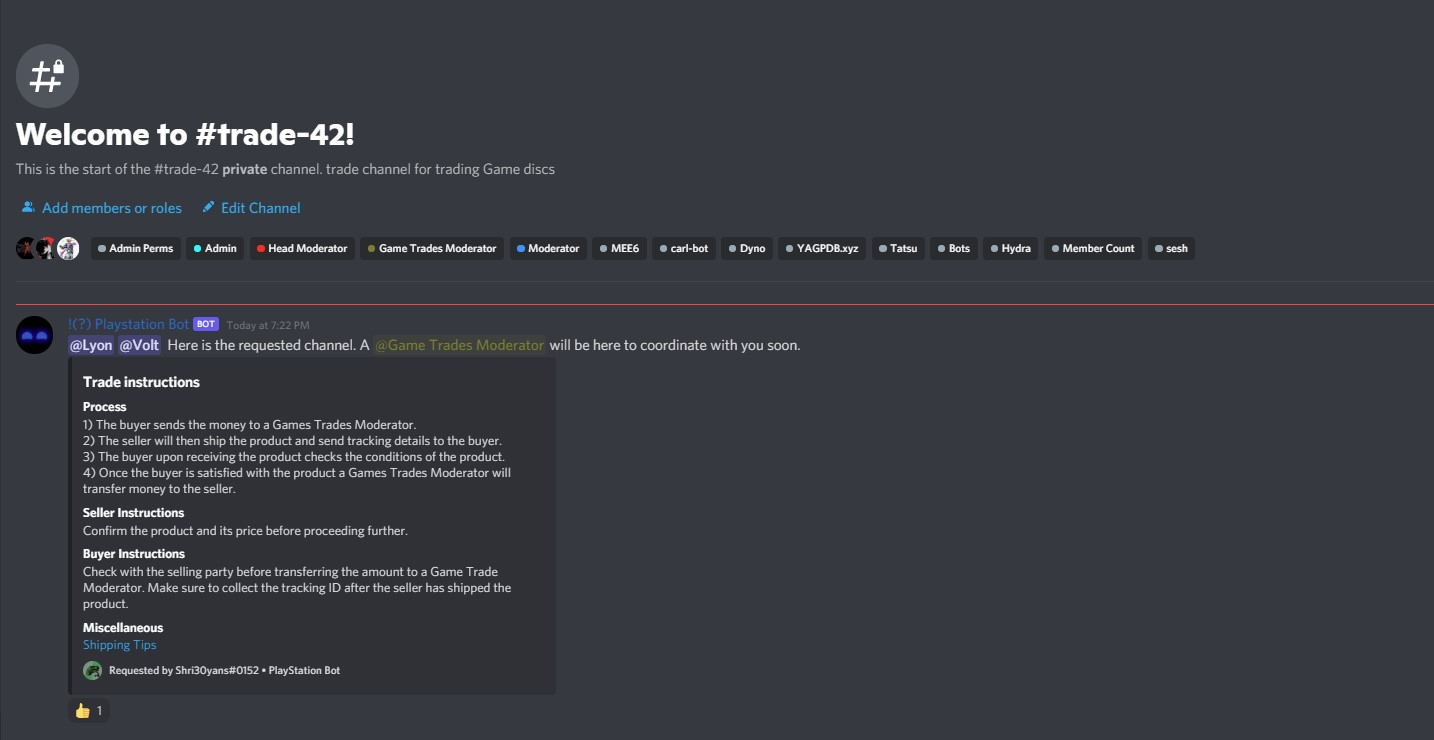
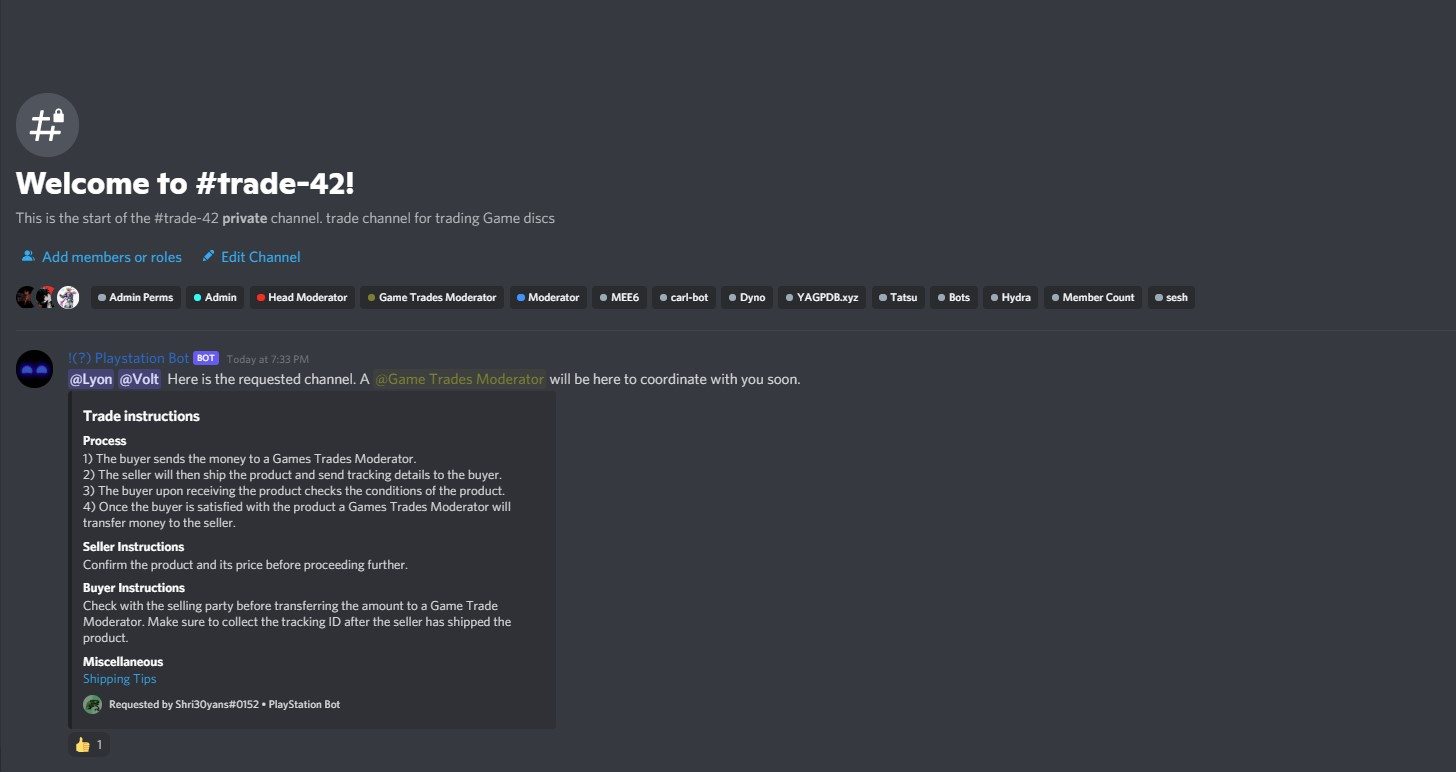
Added Invite link

Changed region(s): [[0.0, 0.0622, 0.8285, 0.9324]]

diff --git a/readme.md b/readme.md
@@ -5,6 +5,8 @@
 * Stock notifications for Xbox Series X and Series S (India Only) (Amazon, Flipkart)
 * Create Trade Channels
 
+[Join the Playstation Server]("https://discord.gg/JpZEvGJmZT")
+
 ### Pictures:
 ![PS5 Stock](https://github.com/shri30yans/PS5_DiscordBot/blob/main/Images/PS5.jpg)   
 *PS5 Stock Alert* 
